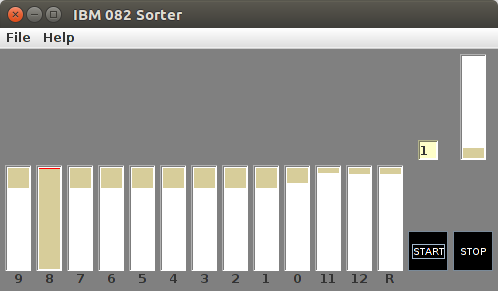
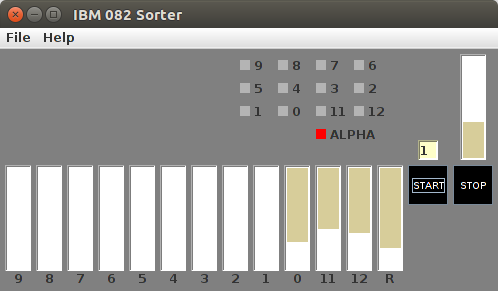
setup Help for Sorter

diff --git a/cardpunch/docs/Sorter.html b/cardpunch/docs/Sorter.html
@@ -1,0 +1,52 @@
+<HTML>
+<HEAD>
+</HEAD>
+<BODY>
+<H3>Punch Card Sorter Help</H3>
+
+<P>The input hopper is located in the upper right.
+The card "pockets" (output stackers) are located on the lower left,
+and arranged in the traditional order starting with the "9" punch.
+"R" indicates the reject pocket.
+The column selector/indicator is located immediately left of the input hopper.
+Selection switches for digits/zones are located to the left of the
+input hopper and column selector.
+The START and STOP buttons should function as on original equipment.
+The run rate is set to 100 cards per second.
+
+<P>The hoppers/stackers are set to show 100 cards, with each card represented
+by a line of pixels. More cards may be in the hopper/stackers, in fact
+there is no practical limit (unlike original equipment). When a hopper/stacker
+has exceeded its display limit, there will be a red line on top of the stack.
+
+<P>Clicking on the input hopper will start a dialog to add a PCD file to the hopper.
+By default, this will add the new file after all existing files in the hopper,
+but the option "Remove All" may be used to clear the hopper first.
+
+<P>Clicking on any pocket will start a dialog to save multiple pockets into
+and single PCD file. The dialog presents checkboxes for each pocket, plus one
+for a "Pick L-R" option that reverse the order of pockets in the file.
+By default, the order will be R-L for all selected pockets,
+which means that the right-most selected pocket will be first in the file
+(on top of the deck). Pockets that are not selected will be left un-changed
+after the save, but all saved pockets will be cleared.
+
+<P>Individual pockets may be cleared (discarding any cards) by right-clicking
+on the desired pocket. Note, discarding cards from a pocket has no effect on
+the original file from which the cards originated.
+
+<P>The column selector may be operated using mouse clicks. Left click will
+decrease the column by one. Right click will increase. Using SHIFT with
+either will jump to the next (higher or lower) multiple of 10.
+The middle mouse button will jump to column 40.
+
+<P>Selection switches are used to suppress the indicated rows during sorting.
+The ALPHA switch overrides the others and suppresses (only) digit rows 1-9.
+These switches effectively form a "mask" on the column data, causing suppressed
+rows to be seen as "not punched". Thus, a card that has no punches except in
+suppressed rows will appear as blank and be sent to the reject pocket.
+Details in the manual are a little fuzzy, so this implementation may need revision
+as new information arises.
+
+</BODY>
+</HTML>

diff --git a/cardpunch/www/ibm029.html b/cardpunch/www/ibm029.html
@@ -31,6 +31,7 @@ overlapping, characters to be printed. This program only prints once, based on
 the current punches. If the final (current) column punches do not represent
 a valid character, nothing is printed.
 
+<P>Additional punch-card data processing equipment is under development.
 <P><IMG SRC="ibm082.png" >
 
 <P>Downloads are available at <A HREF="http://sebhc.durgadas.com/hw2000">sebhc.durgadas.com/hw2000</A>

diff --git a/cardpunch/CardSorter.java b/cardpunch/CardSorter.java
@@ -182,7 +182,7 @@ class CardSorter implements ActionListener, Runnable
 		mu.add(mi);
 		_menus[1] = mu;
 
-		java.net.URL url = this.getClass().getResource("docs/CardPunch.html");
+		java.net.URL url = this.getClass().getResource("docs/Sorter.html");
 		_help = new GenericHelp(frame.getTitle() + " Help", url);
 
 		_col_lb = new ColumnSelector();
@@ -450,11 +450,11 @@ class CardSorter implements ActionListener, Runnable
 	}
 
 	private void showAbout() {
-		java.net.URL url = this.getClass().getResource("docs/About.html");
+		java.net.URL url = this.getClass().getResource("docs/About2.html");
 		try {
 			JEditorPane about = new JEditorPane(url);
 			about.setEditable(false);
-			Dimension dim = new Dimension(300, 230);
+			Dimension dim = new Dimension(300, 260);
 			about.setPreferredSize(dim);
 			JOptionPane.showMessageDialog(_frame, about,
 				"About: Card Punch Simulator", JOptionPane.PLAIN_MESSAGE);
